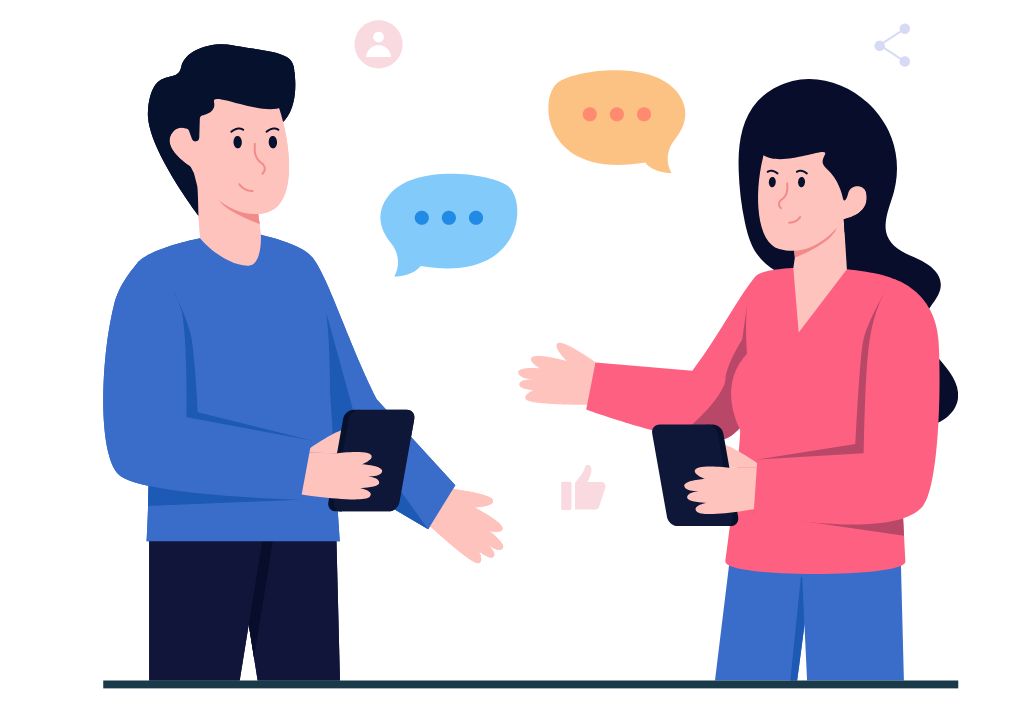
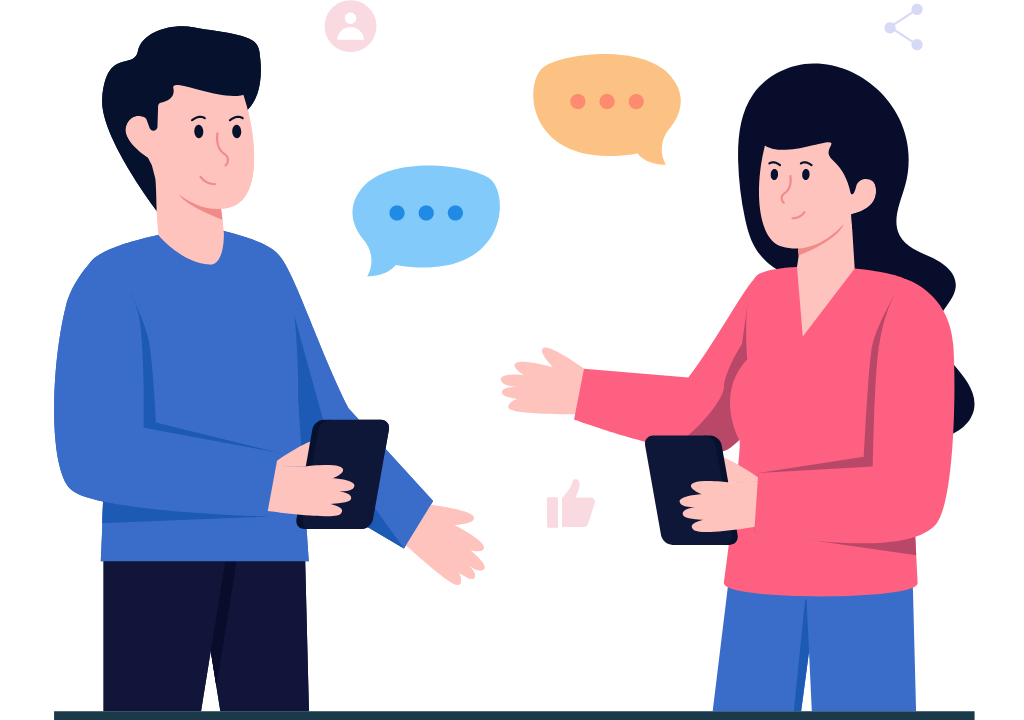
fixes

diff --git a/src/components/Aboutus.tsx b/src/components/Aboutus.tsx
@@ -23,8 +23,8 @@ const RenderFeature: React.FC<RenderFeatureProps> = ({
   return (
     
       <div className="feature-item ">
-        <div className="feature-item-left" style={{ backgroundColor: color }}>
-          <Image src={image} alt={title} height={1000} width={1000} className={` max-w-[400px] feature-${key}`} />
+        <div className="feature-item-left " style={{ backgroundColor: color }}>
+          <Image src={image} alt={title} height={1000} width={1000} className={` -translate-x-[38px] -translate-y-[53.5px] max-w-[650px] feature-${key}`} />
         </div>
         <div className="feature-item-right">
           {/* <p className="h0 lightGrey">0{key + 1}</p> */}
@@ -61,7 +61,7 @@ const featuresInfo: FeatureInfo[] = [
 
 const AboutUs: React.FC = () => {
   return (
-    <div className='w-full rounded-'>
+    <div className='w-full'>
       <p className="h3 darkText ta-center " >
         What GDSC does and how
       </p>

diff --git a/src/app/globals.css b/src/app/globals.css
@@ -286,20 +286,19 @@
   margin: 20px 0;
 }
 
-.feature-item:nth-child(even) {
-  flex-direction: row-reverse;
-}
+
+
 
 .feature-item-left {
   width: 47.5%;
   height: 100%;
   display: flex;
   align-items: center;
-  justify-content: center;
+  justify-content: flex-end;
   padding: 0 8vw;
-  border-radius: 5px;
+  border-radius: 20px;
   padding-right: 0;
-  overflow: hidden;
+  flex-direction: row;
 }
 
 .feature-item-right {
@@ -309,6 +308,10 @@
   flex-direction: column;
   justify-content: center;
   padding: 0 8vw;
+}
+.feature-item:nth-child(even)   {
+  flex-direction: row-reverse;
+
 }
 
 @media only screen and (max-width: 600px) {
